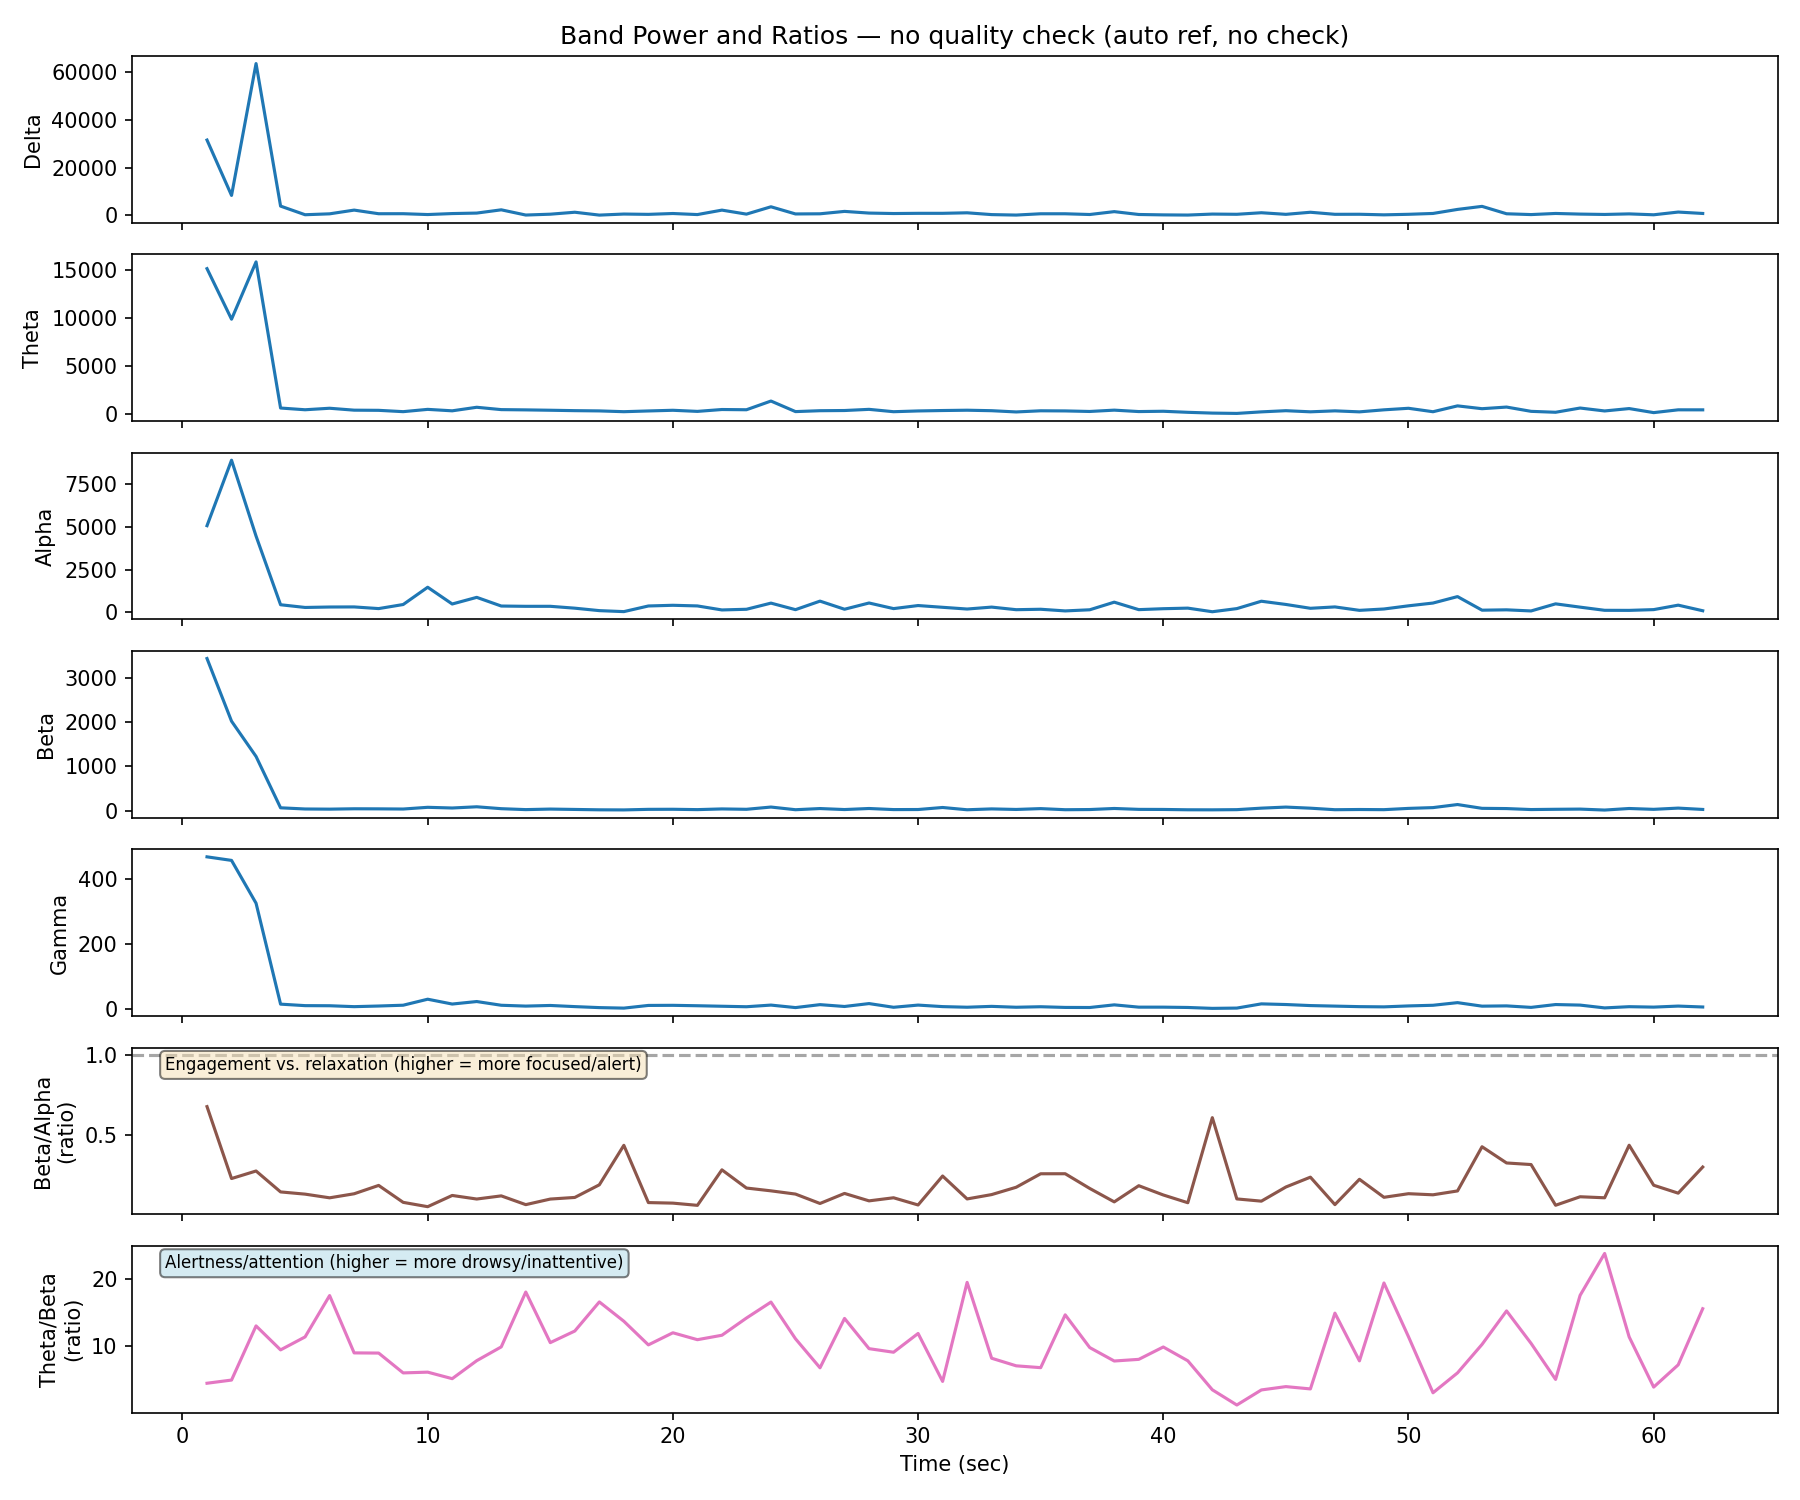
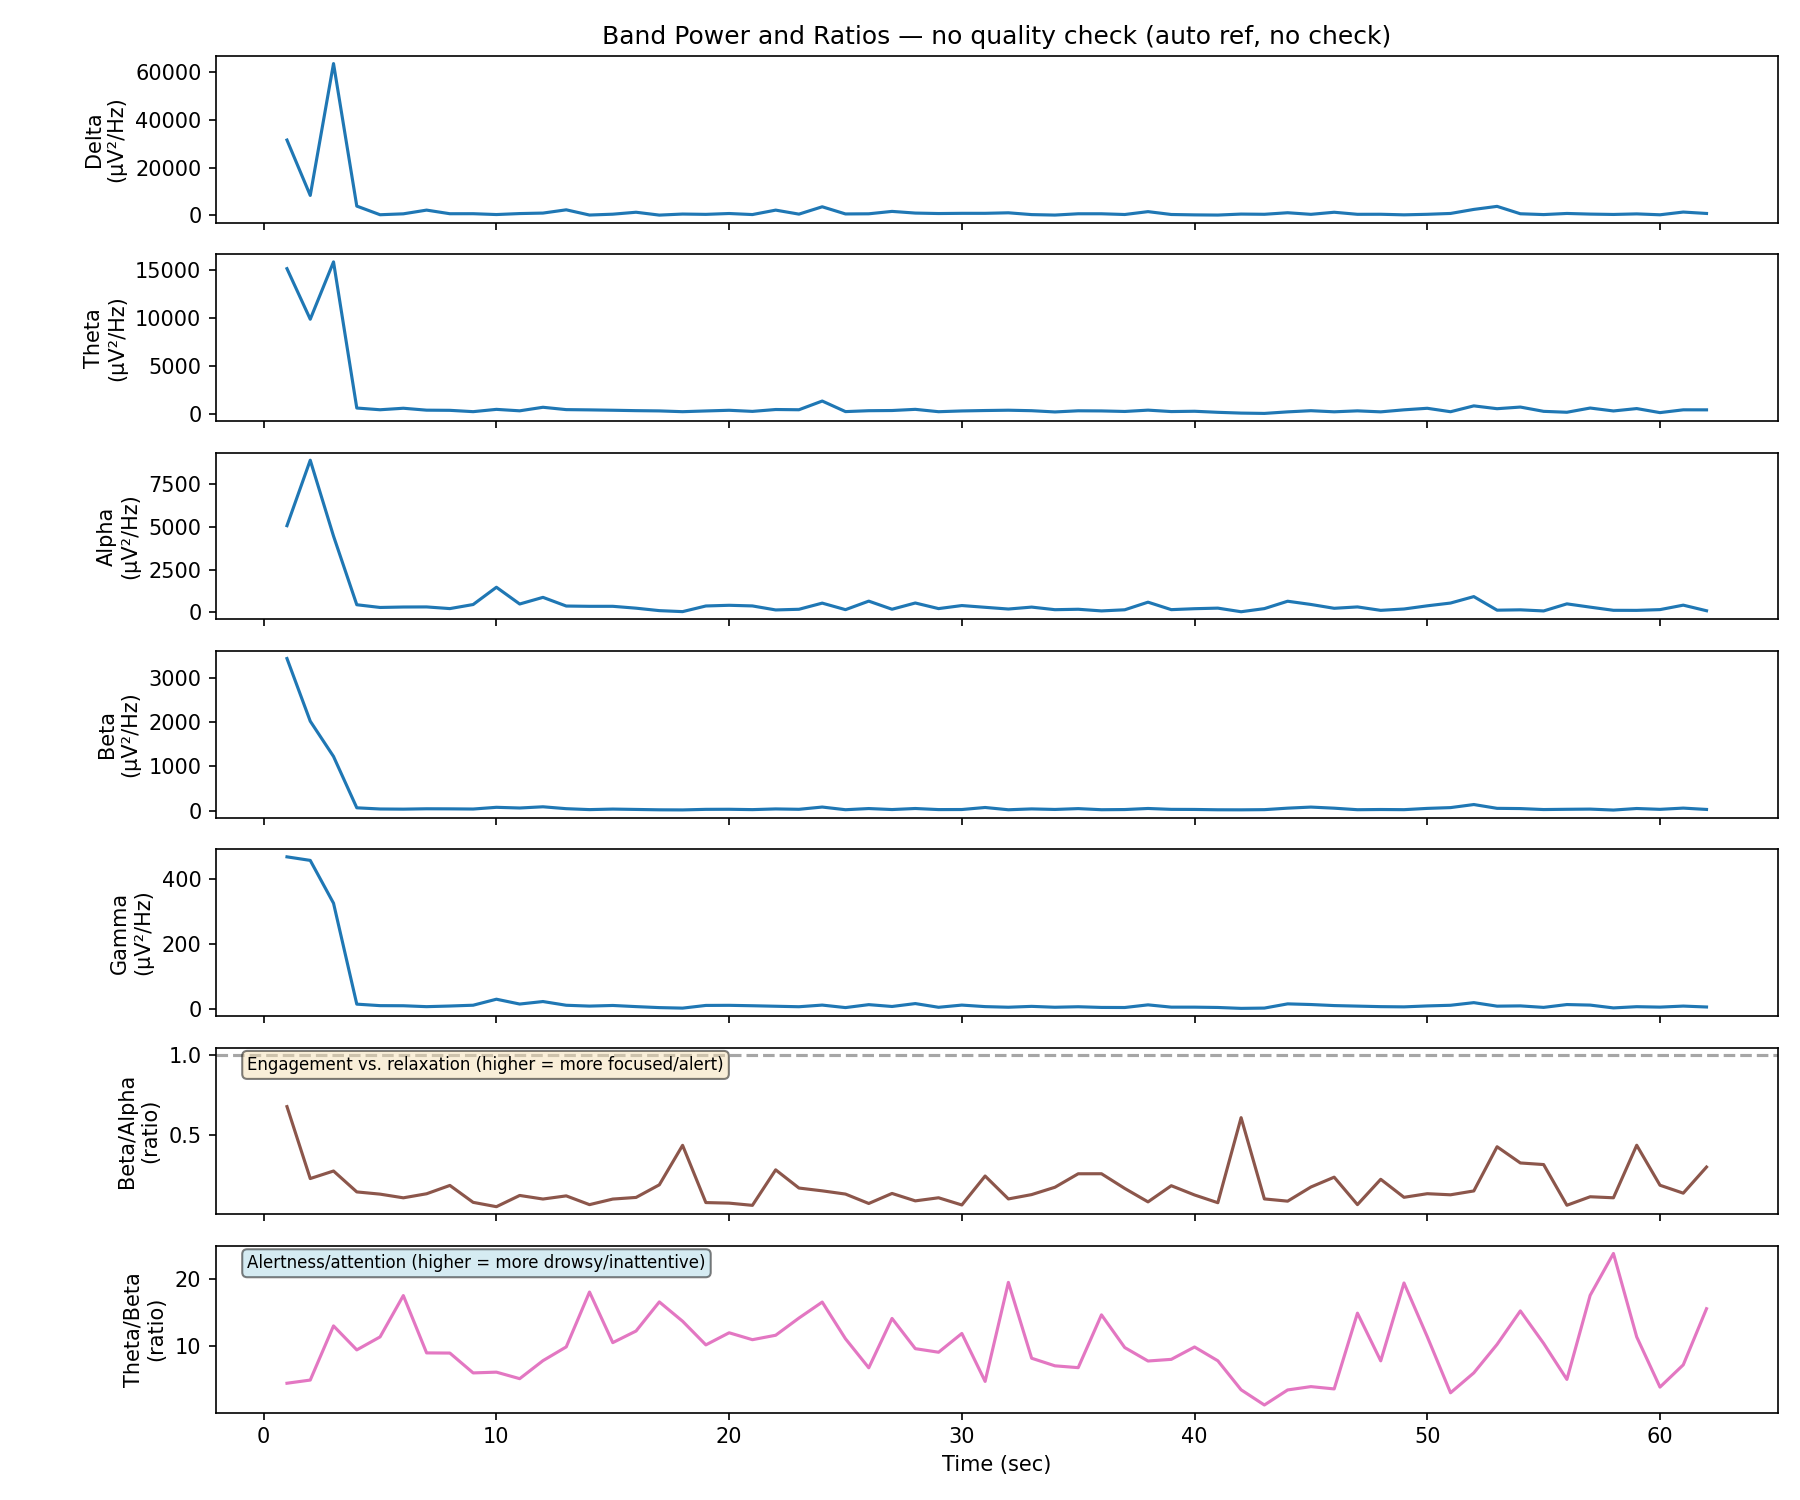
Improved y-axis label formatting in band power plots to include units. Changed run.bat to update graphs on each run.

diff --git a/test_eeg_code/eeg_pipeline.py b/test_eeg_code/eeg_pipeline.py
@@ -335,10 +335,11 @@ def run_batch(output_dir=None, csv_path=None, referenced=True, auto_quality_chec
                 a.axhline(y=1, color="gray", linestyle="--", alpha=0.7)
         else:
             ax.plot(band_df["time_sec"], band_df[name])
-            ax.set_ylabel(name)
+            ax.set_ylabel(f"{name}\n(µV²/Hz)")
     axes[-1].set_xlabel("Time (sec)")
     axes[0].set_title(f"Band Power and Ratios — {PIPELINE_STATE_LABELS.get(pipeline_state, pipeline_state)}")
     fig.tight_layout()
+    fig.subplots_adjust(left=0.12)  # Room for y-axis labels with units
     fig.savefig(os.path.join(output_dir, f"band_power{suffix}.png"), dpi=150)
     plt.close(fig)
 
